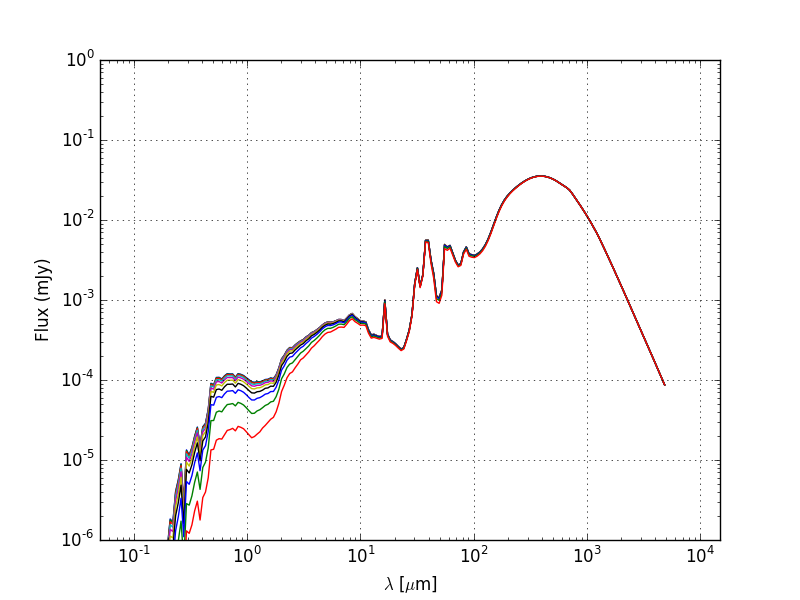
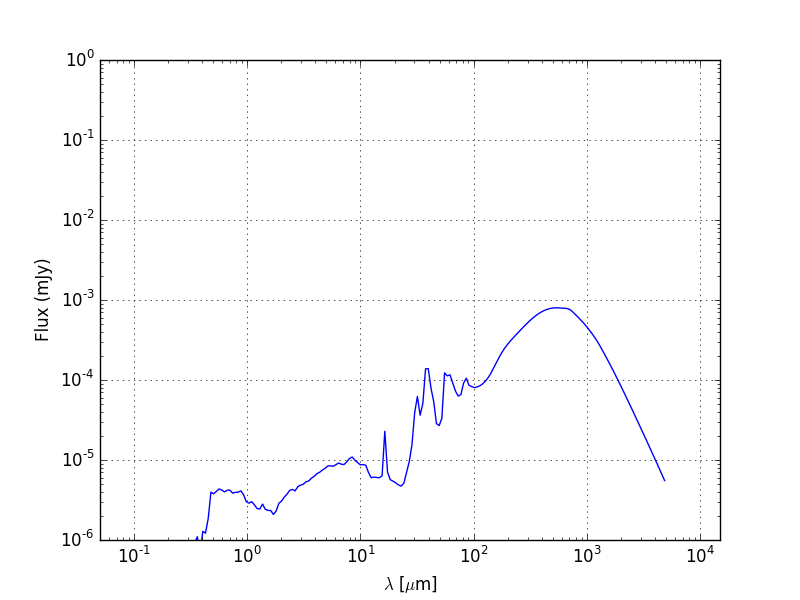
added imaging functionality with imaging wavelengths set in pdfilters.dat

diff --git a/pd_front_end.py b/pd_front_end.py
@@ -9,7 +9,9 @@ script,pardir,parfile,modelfile = sys.argv
 import numpy as np
 import scipy.interpolate
 import scipy.ndimage
-
+import os.path
+import copy
+import pdb,ipdb
 
 from hyperion.model import Model
 import matplotlib as mpl
@@ -17,7 +19,6 @@ import matplotlib.pyplot as plt
 from hyperion.model import ModelOutput
 import h5py
 
-import pdb,ipdb
 
 import yt
 from yt.units.yt_array import YTQuantity
@@ -31,23 +32,18 @@ import config as cfg
 cfg.par = par #re-write cfg.par for all modules that read this in now
 cfg.model = model
 
-
-import error_handling as eh
-
-
 from astropy.table import Table
 from astropy.io import ascii
 
 
-#powderday adds
 from front_ends.front_end_controller import stream
 from grid_construction import yt_octree_generate,grid_coordinate_boost,grid_center
 import SED_gen as sg
 from find_order import *
 import powderday_test_octree as pto
 import hyperion_octree_stats as hos
+import error_handling as eh
 
-import os.path
 
 
 #=========================================================
@@ -135,12 +131,6 @@ np.save('density.npy',dustdens)
 
 m = Model()
 
-
-''' DEBUG 061214
-dx = np.max([(dx,dy,dz)])
-dy = dx
-dz = dx
-'''
 
 print 'Setting Octree Grid with Parameters: '
 
@@ -230,10 +220,13 @@ if par.SOURCES_IN_CENTER == True:
 
 
 
-   
+
 print 'Done adding Sources'
 
 print 'Setting up Model'
+m_imaging = copy.deepcopy(m)
+
+
 #set up the SEDs and images
 m.set_raytracing(True)
 m.set_n_photons(initial=par.n_photons_initial,imaging=par.n_photons_imaging,
@@ -242,19 +235,51 @@ m.set_n_initial_iterations(7)
 m.set_convergence(True,percentile=99.,absolute=1.01,relative=1.01)
 
 
-image = m.add_peeled_images(sed = True,image=True)
-image.set_wavelength_range(250,0.001,1000.)
-image.set_viewing_angles(np.linspace(0,90,par.NTHETA),np.repeat(20,par.NTHETA))
-image.set_track_origin('basic')
-image.set_image_size(128,128)
-image.set_image_limits(-dx, dx, -dy, dy)
+sed = m.add_peeled_images(sed = True,image=False)
+sed.set_wavelength_range(250,0.001,1000.)
+sed.set_viewing_angles(np.linspace(0,90,par.NTHETA),np.repeat(20,par.NTHETA))
+sed.set_track_origin('basic')
 
 print 'Beginning RT Stage'
 #Run the Model
-m.write(model.inputfile,overwrite=True)
-m.run(model.outputfile,mpi=True,n_processes=par.n_processes,overwrite=True)
+m.write(model.inputfile+'.sed',overwrite=True)
+m.run(model.outputfile+'.sed',mpi=True,n_processes=par.n_processes,overwrite=True)
 
 
+
+#see if the variable exists to make code backwards compatible
+try:
+    cfg.par.IMAGING
+except:
+    cfg.par.IMAGING  = None
+
+
+if cfg.par.IMAGING == True:
+    #read in the filters file
+    filters = np.loadtxt(par.filter_file)
+    print "Beginning Monochromatic Imaging RT"
+
+
+    m_imaging.set_raytracing(True)
+    m_imaging.set_monochromatic(True,wavelengths=filters)
+    
+    m_imaging.set_n_photons(initial = par.n_photons_initial,
+                            imaging_sources = par.n_photons_imaging,
+                            imaging_dust =  par.n_photons_imaging,
+                            raytracing_sources=par.n_photons_raytracing_sources,
+                            raytracing_dust = par.n_photons_raytracing_dust)
+    m_imaging.set_n_initial_iterations(7)
+    m_imaging.set_convergence(True,percentile=99.,absolute=1.01,relative=1.01)
+    image = m_imaging.add_peeled_images(sed = True, image = True)
+    
+    image.set_viewing_angles(np.linspace(0,90,par.NTHETA),np.repeat(20,par.NTHETA))
+    image.set_track_origin('basic')
+    image.set_image_size(128,128)
+    image.set_image_limits(-dx,dx,-dy,dy)
+    
+    m_imaging.write(model.inputfile+'.image',overwrite=True)
+    m_imaging.run(model.outputfile+'.image',mpi=True,n_processes=par.n_processes,overwrite=True)
+   
 
 
 

diff --git a/convenience/make_image_single_wavelength.py b/convenience/make_image_single_wavelength.py
@@ -1,0 +1,57 @@
+import numpy as np
+import matplotlib.pyplot as plt
+from hyperion.model import ModelOutput
+from astropy.cosmology import Planck13
+import astropy.units as u
+
+# ------------------------
+# modifiable header
+# ------------------------
+
+m = ModelOutput('/Users/desika/Dropbox/powderday/verification/quick/example.200.rtout.image')
+wav = 850 #micron
+redshift =2
+image_width = 100 #kpc
+
+# ------------------------
+
+
+distance = Planck13.luminosity_distance(redshift).cgs.value
+
+
+# Extract the image for the first inclination, and scale to 300pc. We
+# have to specify group=1 as there is no image in group 0.
+image = m.get_image(distance=distance, units='mJy')
+
+# Open figure and create axes
+fig = plt.figure()
+
+
+ax = fig.add_subplot(111)
+
+# Find the closest wavelength
+iwav = np.argmin(np.abs(wav - image.wav))
+
+# Calculate the image width in kpc
+w = image.x_max * u.cm
+w = w.to(u.kpc)
+
+
+
+#plot the beast
+
+cax = ax.imshow(np.arcsinh(image.val[0,:, :, iwav]),
+                cmap = plt.cm.spectral, origin='lower', extent=[-w.value, w.value, -w.value, w.value])
+
+plt.xlim([-image_width,image_width])
+plt.ylim([-image_width,image_width])
+    
+
+# Finalize the plot
+ax.tick_params(axis='both', which='major', labelsize=10)
+ax.set_xlabel('x kpc')
+ax.set_xlabel('y kpc')
+
+plt.colorbar(cax,label='Flux (mJy)',format='%.0e')
+
+fig.savefig('pd_image.png', bbox_inches='tight',dpi=150)

diff --git a/parameters_master.py b/parameters_master.py
@@ -91,7 +91,10 @@ metallicity_legend= "/Users/desika/fsps/ISOCHRONES/Padova/Padova2007/zlegend_bas
 #IMAGES AND SED
 #===============================================
 
-NTHETA = 10
+NTHETA = 10 
+
+IMAGING = True
+filter_file = 'pdfilters.dat'
 
 
 #===============================================
